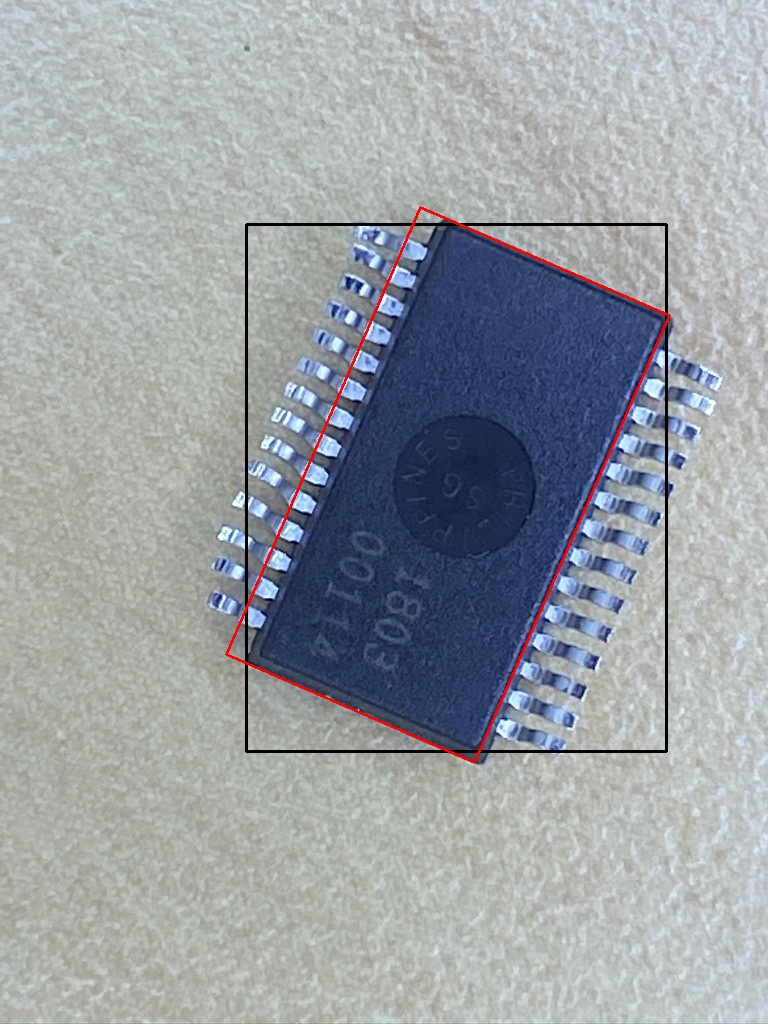
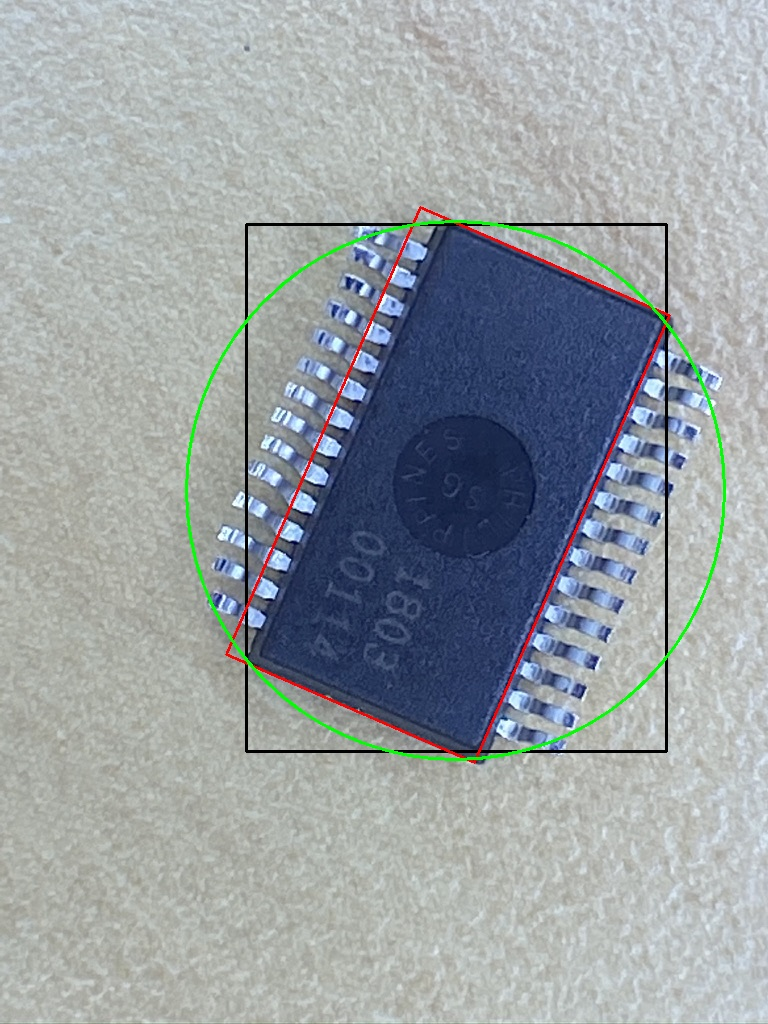
add circle system

diff --git a/fix_angle.py b/fix_angle.py
@@ -11,29 +11,39 @@ contours, hierarchy = cv2.findContours(img_ic, cv2.RETR_LIST, cv2.CHAIN_APPROX_N
 for i in range(0, len(contours)):
     if len(contours[i]) > 0:
 
-        # remove small objects
+        # ゴミを取り除く
         if cv2.contourArea(contours[i]) < 100000:
             continue
-
+        
+        # 外接矩形を描く
         rect = contours[i]
         x, y, w, h = cv2.boundingRect(rect)
         cv2.rectangle(img, (x, y), (x + w, y + h), (0, 0, 0), 2)
 
+        # 回転を考慮した外接矩形を描く
         rect = cv2.minAreaRect(contours[i])
+        angle = int(rect[2])
         print(rect)
         box = cv2.boxPoints(rect)
         box = np.int0(box)
         cv2.drawContours(img, [box],0,(0,0,255),2)
 
-# save
+        # 最小外接円を描く
+        (x,y),radius = cv2.minEnclosingCircle(contours[i])
+        center = (int(x),int(y))
+        radius = int(radius)
+        img = cv2.circle(img,center,radius,(0,255,0),2)
+
+
+
+# 回転前の画像を保存
 cv2.imwrite('image/add_contour.jpg', img)
+
+# 画像を回転する
 height = img.shape[0]
 width = img.shape[1]
 center = (int(width/2), int(height/2))
-
-angle = int(rect[2])
 scale = 1.0
 trans = cv2.getRotationMatrix2D(center, angle, scale)
 img2 = cv2.warpAffine(img, trans, (width,height))
-
 cv2.imwrite('image/fixed_angle.jpg', img2)
